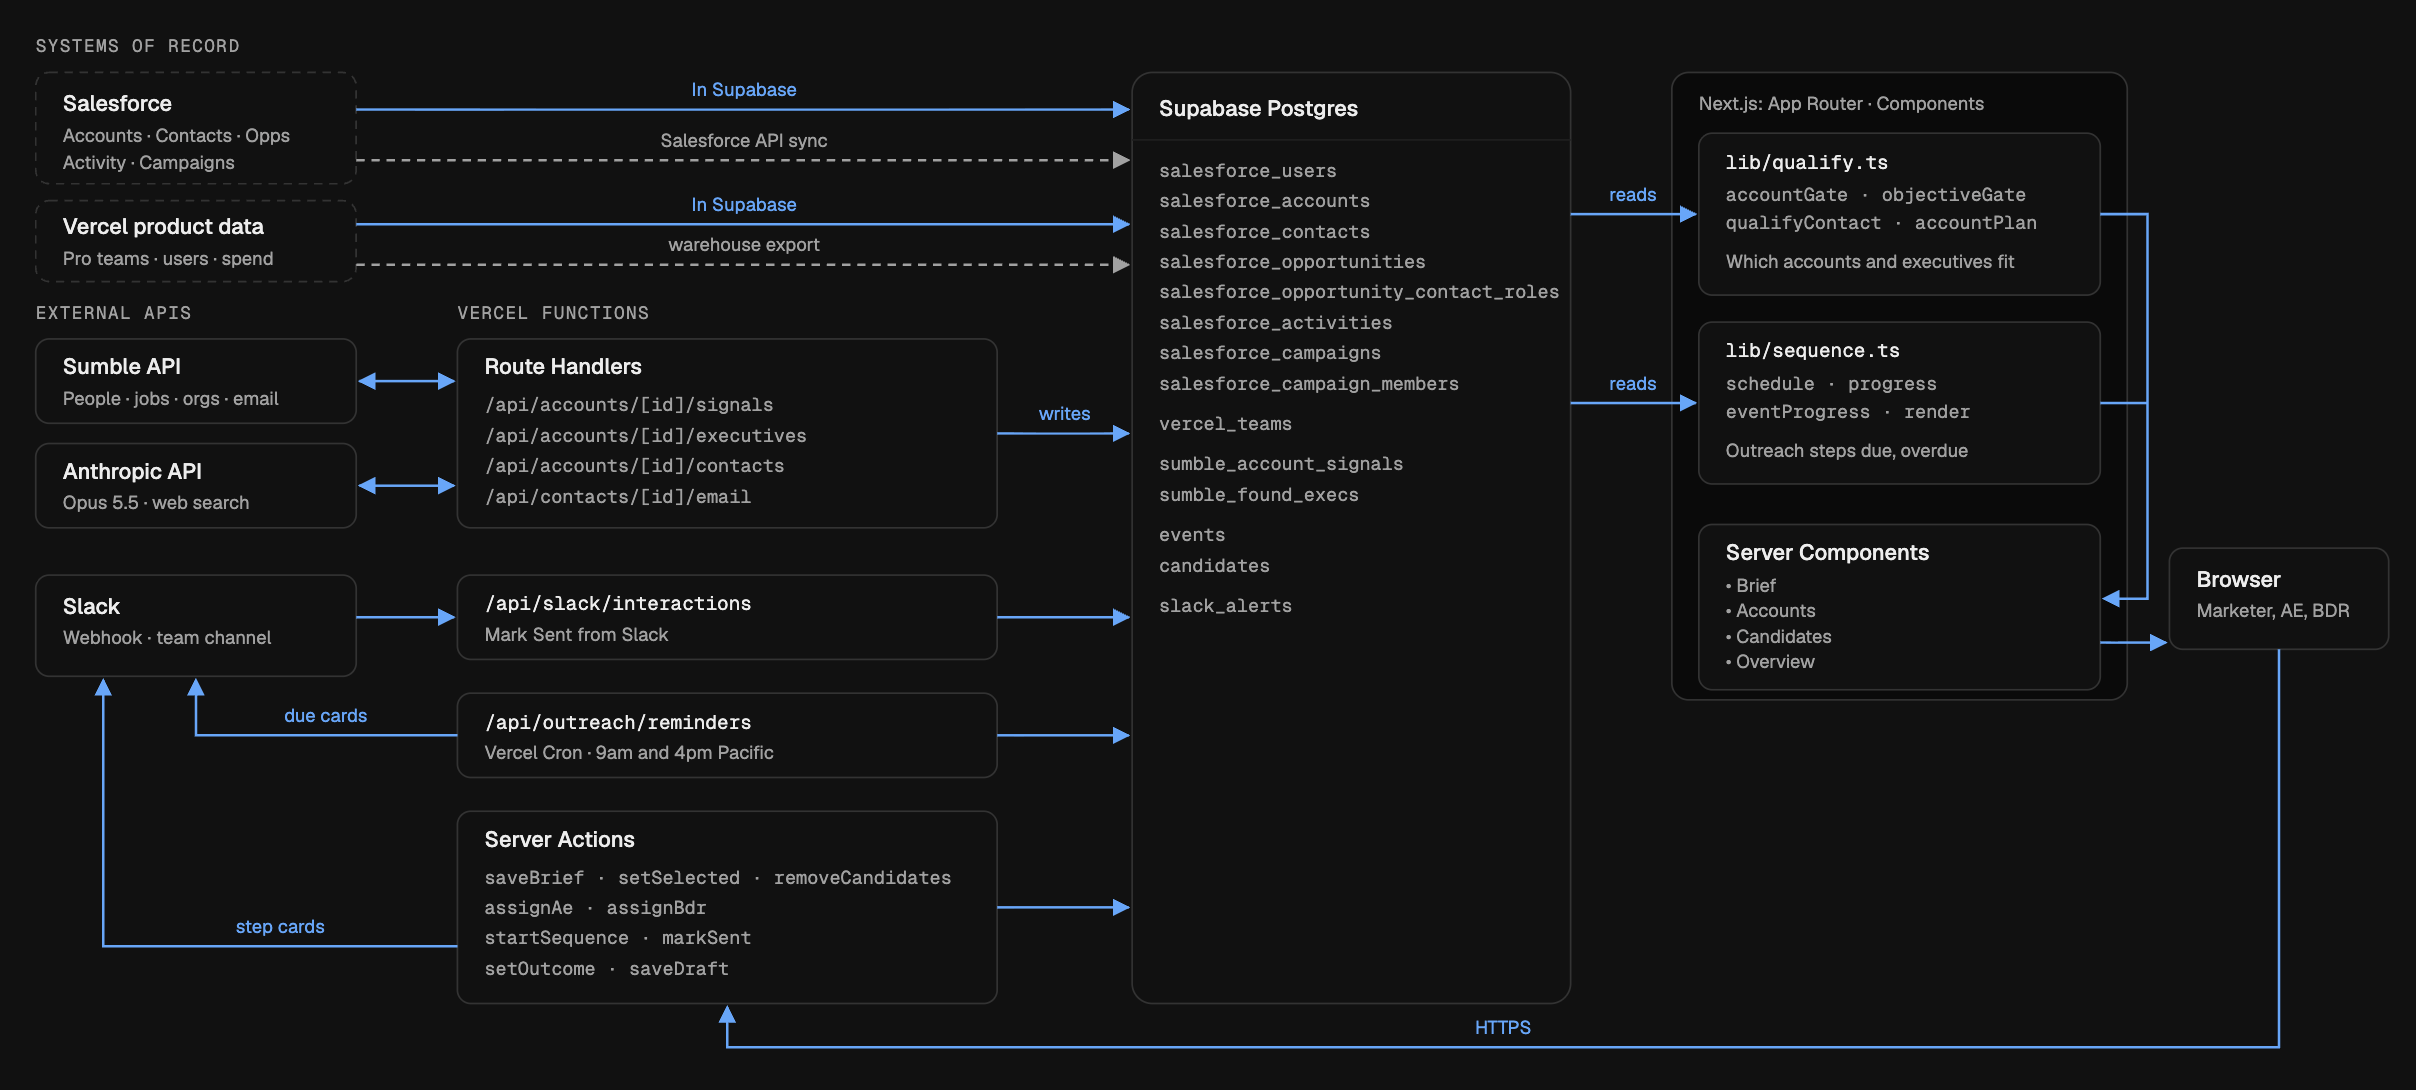
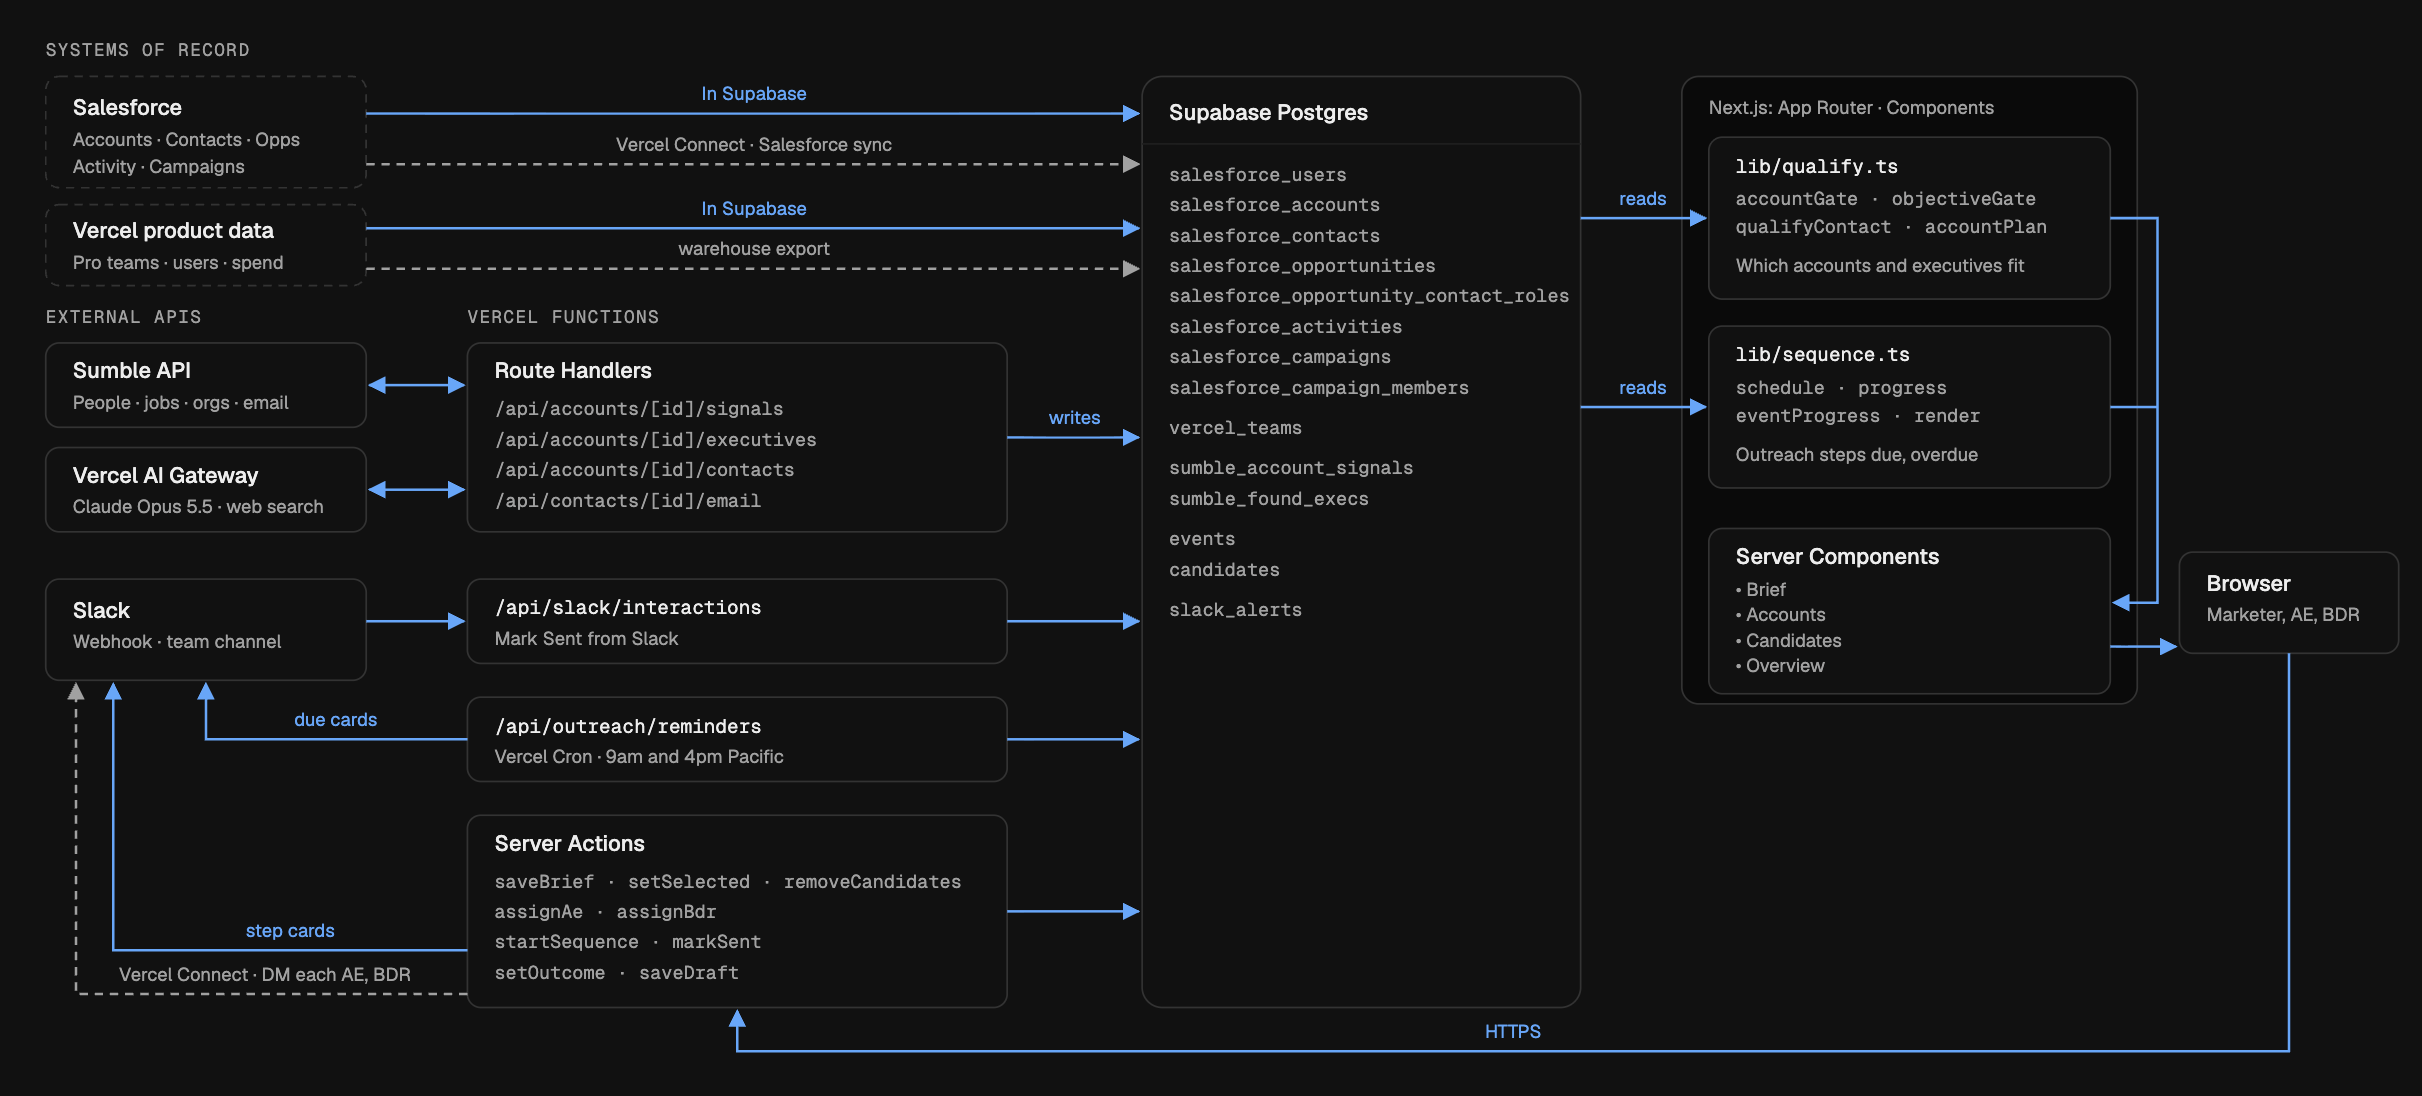
update architecture diagram

diff --git a/app/layout.tsx b/app/layout.tsx
@@ -9,7 +9,7 @@ const geistMono = Geist_Mono({ variable: "--font-geist-mono", subsets: ["latin"]
 
 export const metadata: Metadata = {
   title: { default: "Seatbook", template: "%s · Seatbook" },
-  description: "Curate who gets the 10 seats, and the warmest way to invite them.",
+  description: "Find the right executives for each Vercel event, and run their outreach.",
 };
 
 export const viewport: Viewport = { themeColor: "#000000" };
